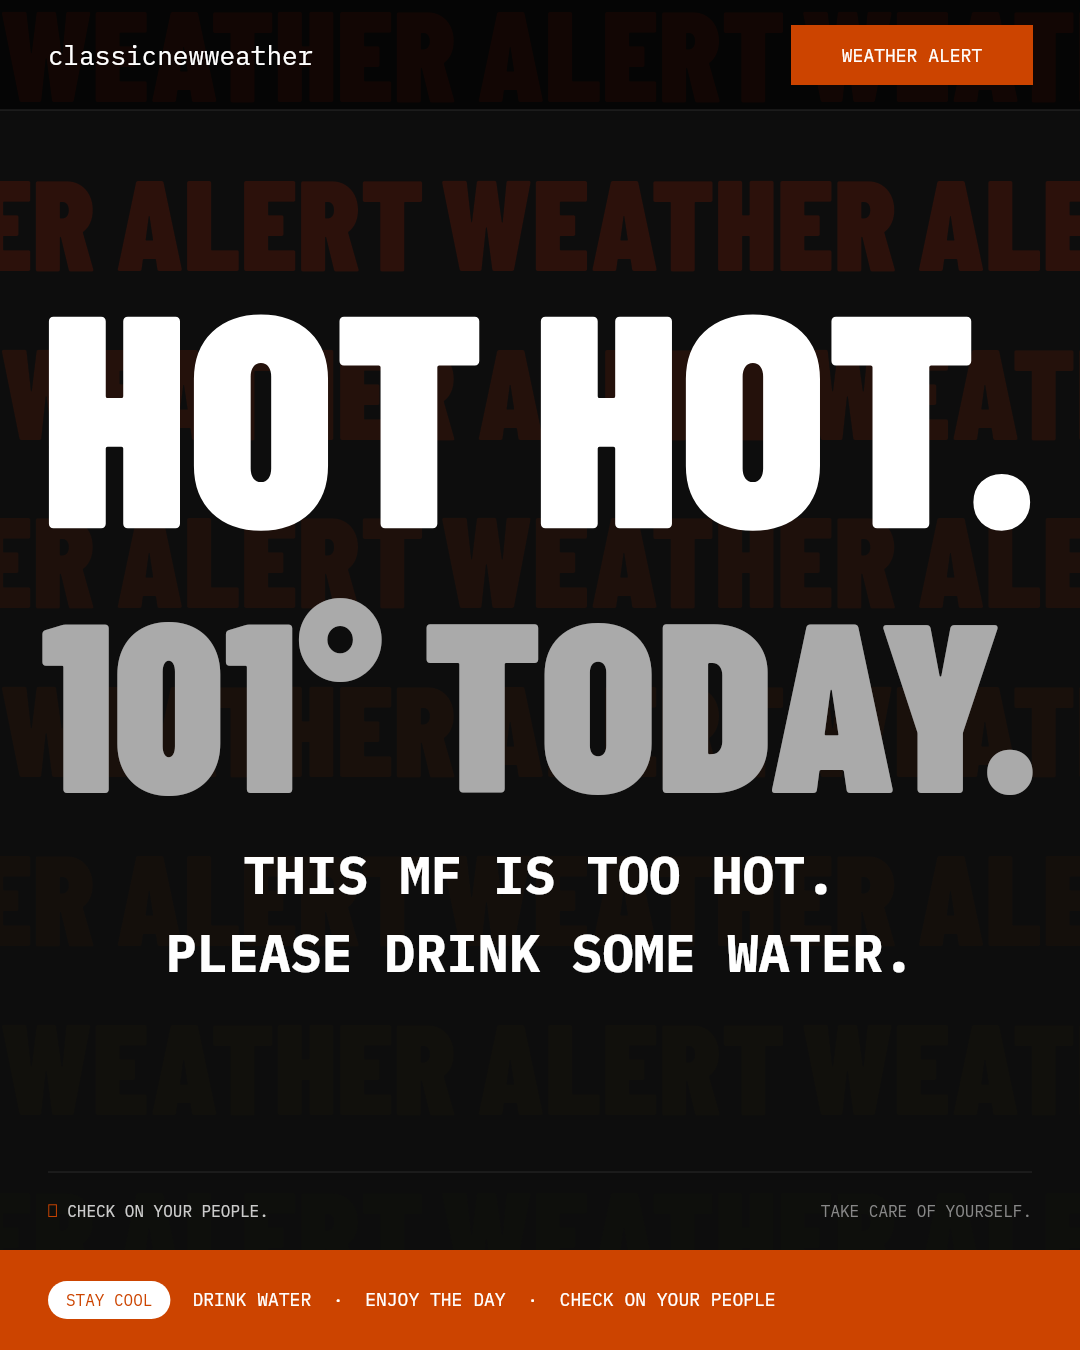
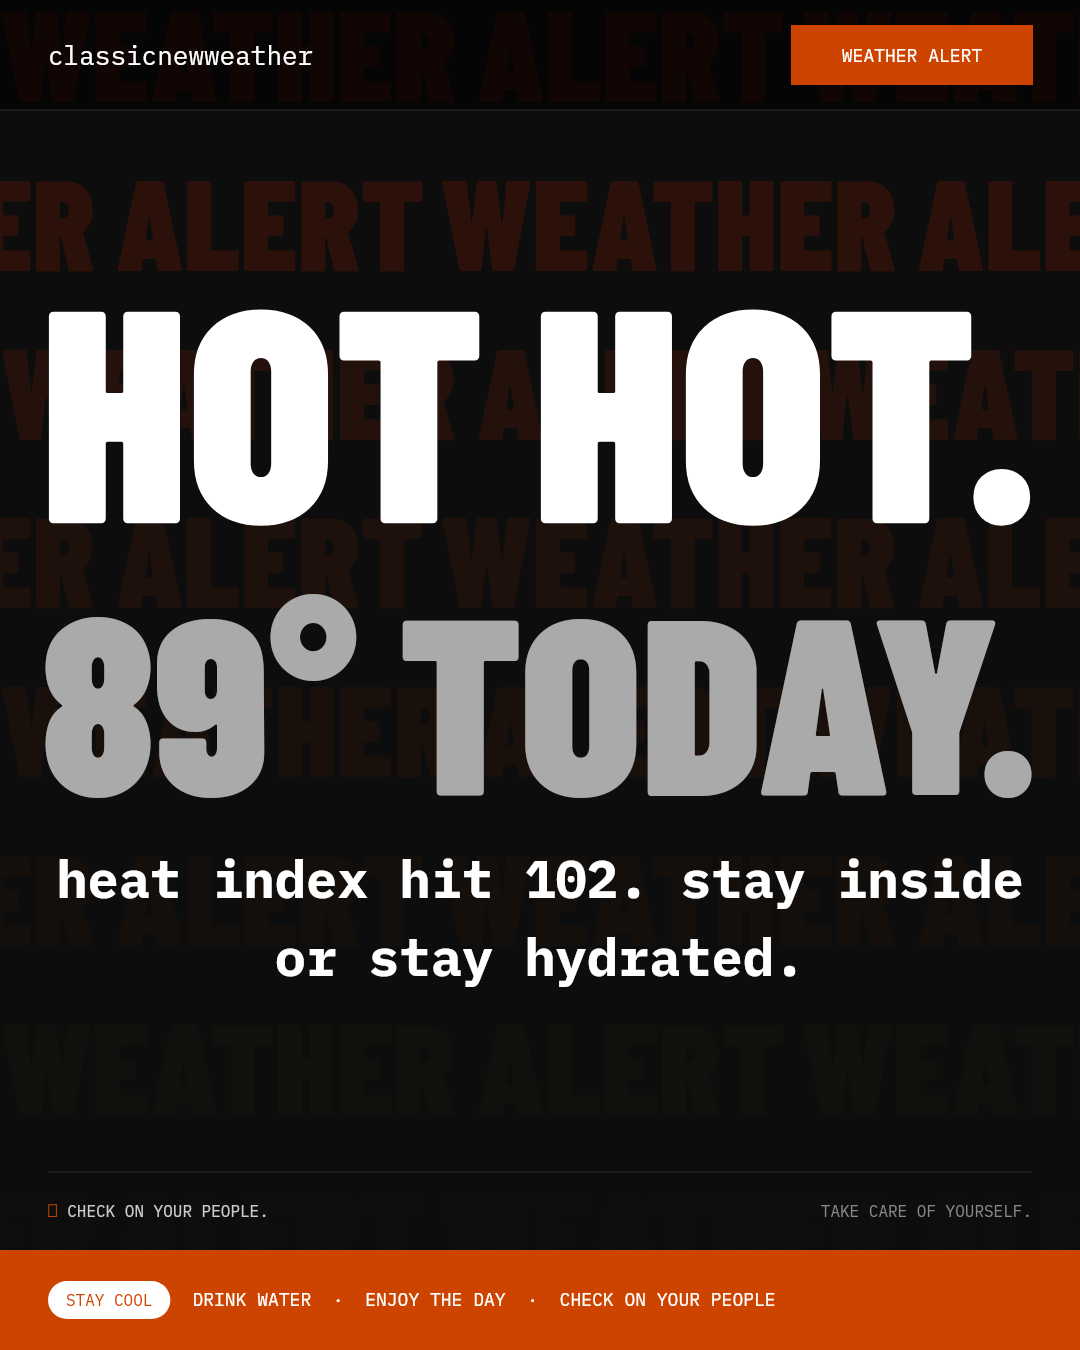
update

diff --git a/netlify/functions/check-nws-alerts.js b/netlify/functions/check-nws-alerts.js
@@ -110,6 +110,7 @@ Write the 2 lines. Nothing else.`;
 Rules:
 - 2-3 lines, casual and cool, lowercase mostly
 - NYC energy — name the specific alert, tell people what to do right now
+- Do NOT mention specific times, expiry windows, or durations — you don't have accurate data
 - End with 4-5 hashtags on their own line — always include #NYC and #NewYork
 - No corporate language. Direct and real.
 
@@ -185,6 +186,13 @@ exports.handler = async (event) => {
   } catch {}
 
   const dateKey = toNYCDateKey(new Date());
+
+  // No posts after 8PM NYC — alerts after this hour aren't actionable
+  const nycHour = parseInt(new Intl.DateTimeFormat('en-US', { timeZone: 'America/New_York', hour: 'numeric', hour12: false }).format(new Date()));
+  if (nycHour >= 20) {
+    console.log(`check-nws-alerts: past 8PM NYC (${nycHour}:xx) — skipping post`);
+    return { statusCode: 200, body: JSON.stringify({ ok: true, skipped: 'past cutoff' }) };
+  }
 
   try {
     // ── 1. Fetch NWS active alerts ──
